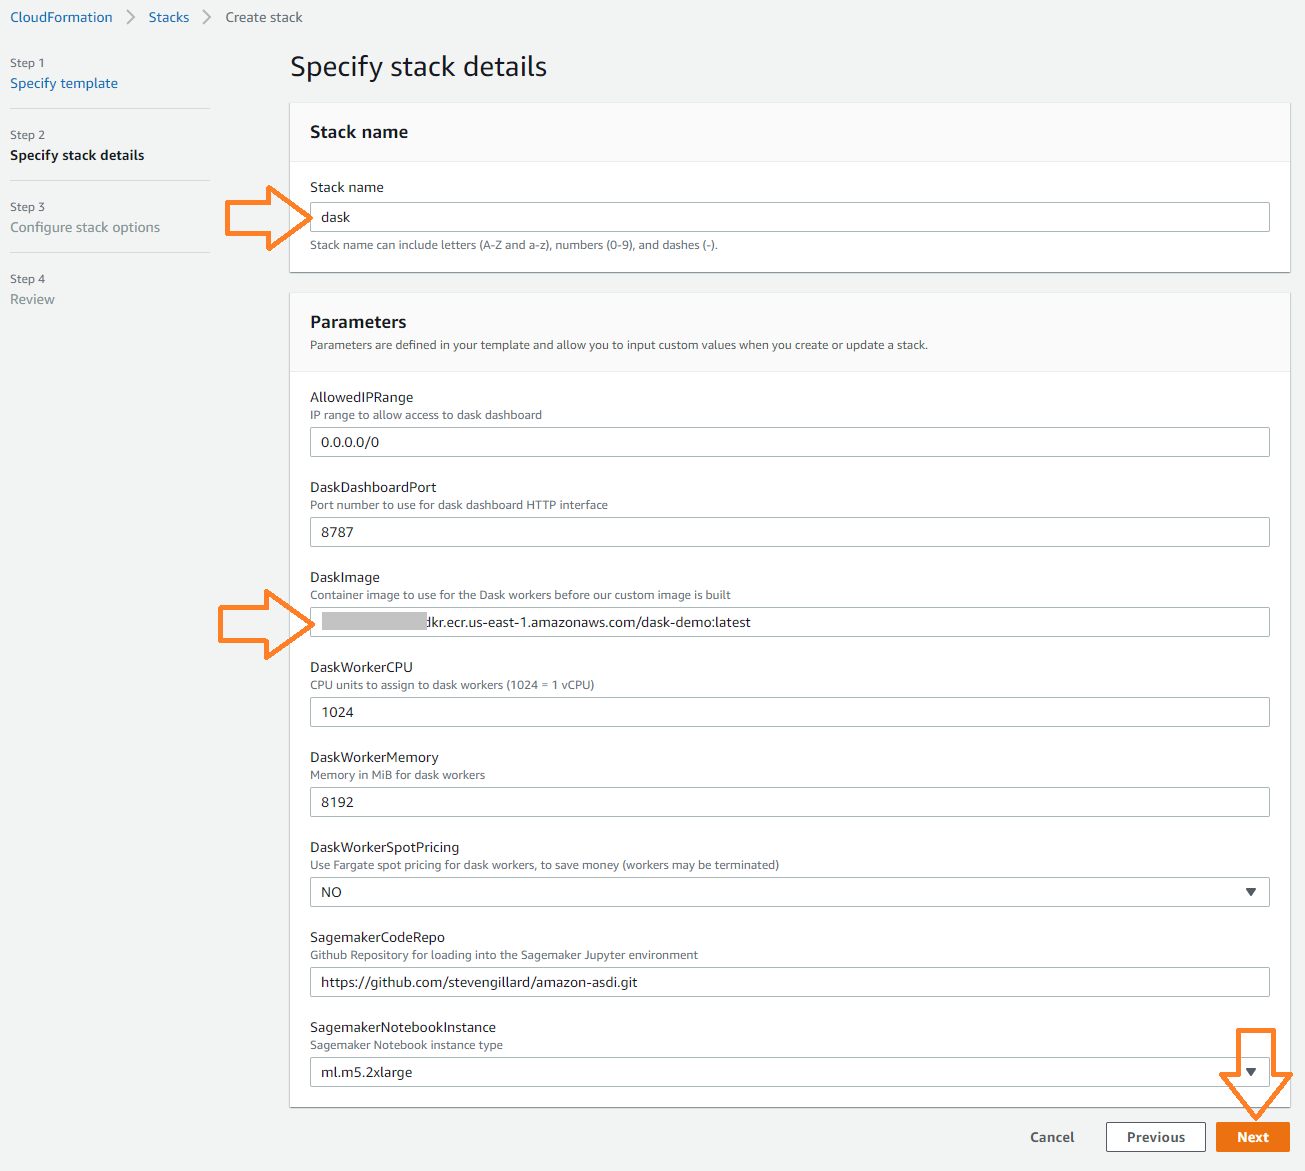
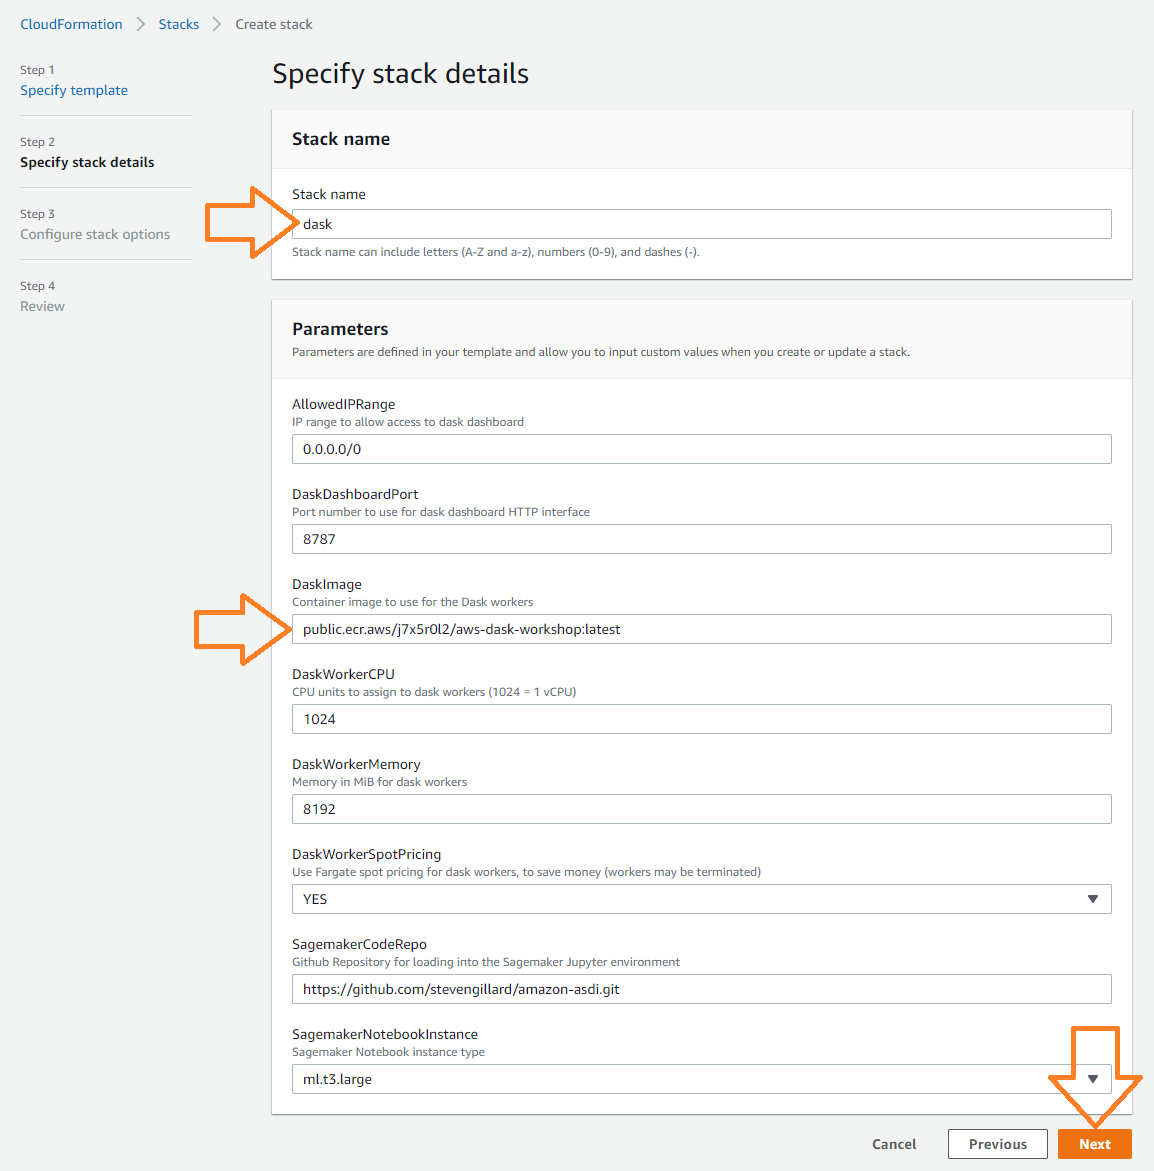
simplified workshop option without container build

diff --git a/examples/dask/workshop.md b/examples/dask/workshop.md
@@ -11,30 +11,36 @@ Once the environment is running, you will step through some large-scale data pro
 
 During the workshop you will:
 1. Set up your cloud development environment using the [AWS Cloud9](https://aws.amazon.com/cloud9/) browser based development environment (IDE)
-1. Create your customised dask container image using [Docker](https://www.docker.com), and publish it to the [Amazon Elastic Container Registry](https://aws.amazon.com/ecr/) (ECR) service
-1. Deploy the dask environment using the provided [AWS CloudFormation](https://aws.amazon.com/cloudformation/) "infrastructure-as-code" template.  This template sets up the following services:
-    * An [Amazon Virtual Private Cloud](https://aws.amazon.com/vpc/) network, with two subnets for the dask scheduler and dask worker tasks, as well as an Internet Gateway, NAT Gateway and S3 endpoint to facilitate connectivity with external resources
-    * The Amazon ECS cluster with task definitions to run the dask scheduler and worker containers
+1. Create your customised Dask container image using [Docker](https://www.docker.com), and publish it to the [Amazon Elastic Container Registry](https://aws.amazon.com/ecr/) (ECR) service
+1. Deploy the Dask environment using the provided [AWS CloudFormation](https://aws.amazon.com/cloudformation/) "infrastructure-as-code" template.  This template sets up the following services:
+    * An [Amazon Virtual Private Cloud](https://aws.amazon.com/vpc/) network, with two subnets for the Dask scheduler and Dask worker tasks, as well as an Internet Gateway, NAT Gateway and S3 endpoint to facilitate connectivity with external resources
+    * The Amazon ECS cluster with task definitions to run the Dask scheduler and worker containers
     * A managed Jupyter Notebook instance created via the [Amazon SageMaker](https://aws.amazon.com/sagemaker) service
 1. Step through a [Jupyter Notebook](https://jupyter.org) that performs large scale data processing on the [ERA5](https://registry.opendata.aws/ecmwf-era5/) climate reanalysis data set, hosted in [Amazon S3](https://aws.amazon.com/s3/) on the [AWS Open Data Registry](https://registry.opendata.aws)
 
 ## Prerequisites
 * Access to an AWS account, preferably with admin level privileges
 * Familiarity with Linux, Docker containers and Python
-## Workshop labs
+
+## Workshop Labs Part 1 - Build a custom container image
+The following labs are optional.  They will guide you through using Cloud9 and Docker to create a customised Dask container image, which will be uploaded to the Amazon Elastic Container Registry ready for deployment.  A public image is provided if you'd prefer to skip these steps and proceed straight to [Lab 3 - Create the Dask ECS environment](workshop-03.md).
 
 ### [Lab 1 - Setup your cloud development environment](workshop-01.md)
 
-### [Lab 2 - Build your customised dask container image](workshop-02.md)
+### [Lab 2 - Build your customised Dask container image](workshop-02.md)
 
-### [Lab 3 - Create the dask ECS environment](workshop-03.md)
+
+## Workshop Labs Part 2 - Deploy Dask and perform analysis
+This is where the fun starts - deploy the Dask into an AWS VPC running on the Amazon Elastic Container Service and Fargate, then use an Amazon SageMaker Notebook to submit data analysis jobs to your cluster.
+### [Lab 3 - Create the Dask ECS environment](workshop-03.md)
 
 ### [Lab 4 - Process data using the SageMaker Notebook](workshop-04.md)
 
+## Workshop Cleanup
 ### [Clean up - Delete all resources](workshop-05.md)
 
 ## Architecture
-The workshop is based on the dask ECS environment as shown in the diagram below.
+The workshop is based on the Dask ECS environment as shown in the diagram below.
 ![architecture](cloudformation/dask-architecture.png)
 
 For the purposes of the workshop some of the steps will be performed manually, to help you understand some of the moving parts in more detail.

diff --git a/examples/dask/workshop-03.md b/examples/dask/workshop-03.md
@@ -24,11 +24,15 @@ We'll use the AWS console to deploy the template, but it can be done via the CLI
 
 1. Select **Template is ready** and **Upload a template file**
 
-1. Navigate to the location of the `dask-environment.yaml` file and select it (if using Cloud9 you may need to download the file to your computer first - simply right click and select **Download**).  The file will be uploaded to S3 automatically, and the location will appear.  Click **Next** when ready.
+1. Navigate to the location of the [dask-environment.yaml](dask-environment.yaml) file and select it (you may need to download the file to your computer first - either from github or if you are in Cloud9 simply right click and select **Download**).  The file will be uploaded to S3 automatically, and the location will appear.  Click **Next** when ready.
 
     ![SelectTemplate](workshop/0303-CloudFormationCreate2.png)
 
-1. Enter a name for the stack, and change the `DaskImage` parameter value to your custom image URI (which you created in the previous step). Click **Next** when ready. 
+1. Enter a name for the stack.  Optionally change the `DaskImage` parameter value to your custom image URI (if you created one in the previous lab).  
+
+   Alternatively you can leave the default `DaskImage` value, which is a pre-built public image stored in Amazon ECR `public.ecr.aws/j7x5r0l2/aws-dask-workshop:latest` Click **Next** when ready. 
+
+   Examine the other parameter values but there is no need to change them - you may accept the defaults.
 
     ![Parameters](workshop/0304-CloudFormationParameters.png)
 

diff --git a/examples/dask/workshop-04.md b/examples/dask/workshop-04.md
@@ -49,6 +49,10 @@ This lab will get you connected to the notebook so you can access the dask envir
 
     ![DaskWorkers](workshop/0410-DaskWorkers.png)
 
+   You can also view your cluster on the AWS ECS console: https://console.aws.amazon.com/ecs/home?region=us-east-1#/clusters
+
+    ![ECSCluster](workshop/041005-ECSCluster.png)
+
 1. Return to your notebook instance tab and continue executing the steps.  You'll be taken through a series of introductory operations, opening files, loading datasets and displaying some information about the objects.  Eventually you'll see a graphic like the following, which gives you an understanding of the number of dask tasks that are queued up.
 
     In this case you can see that the data array will be nearly 68GiB in size, with 2456 tasks to be executed across 1216 chunks of data.  
